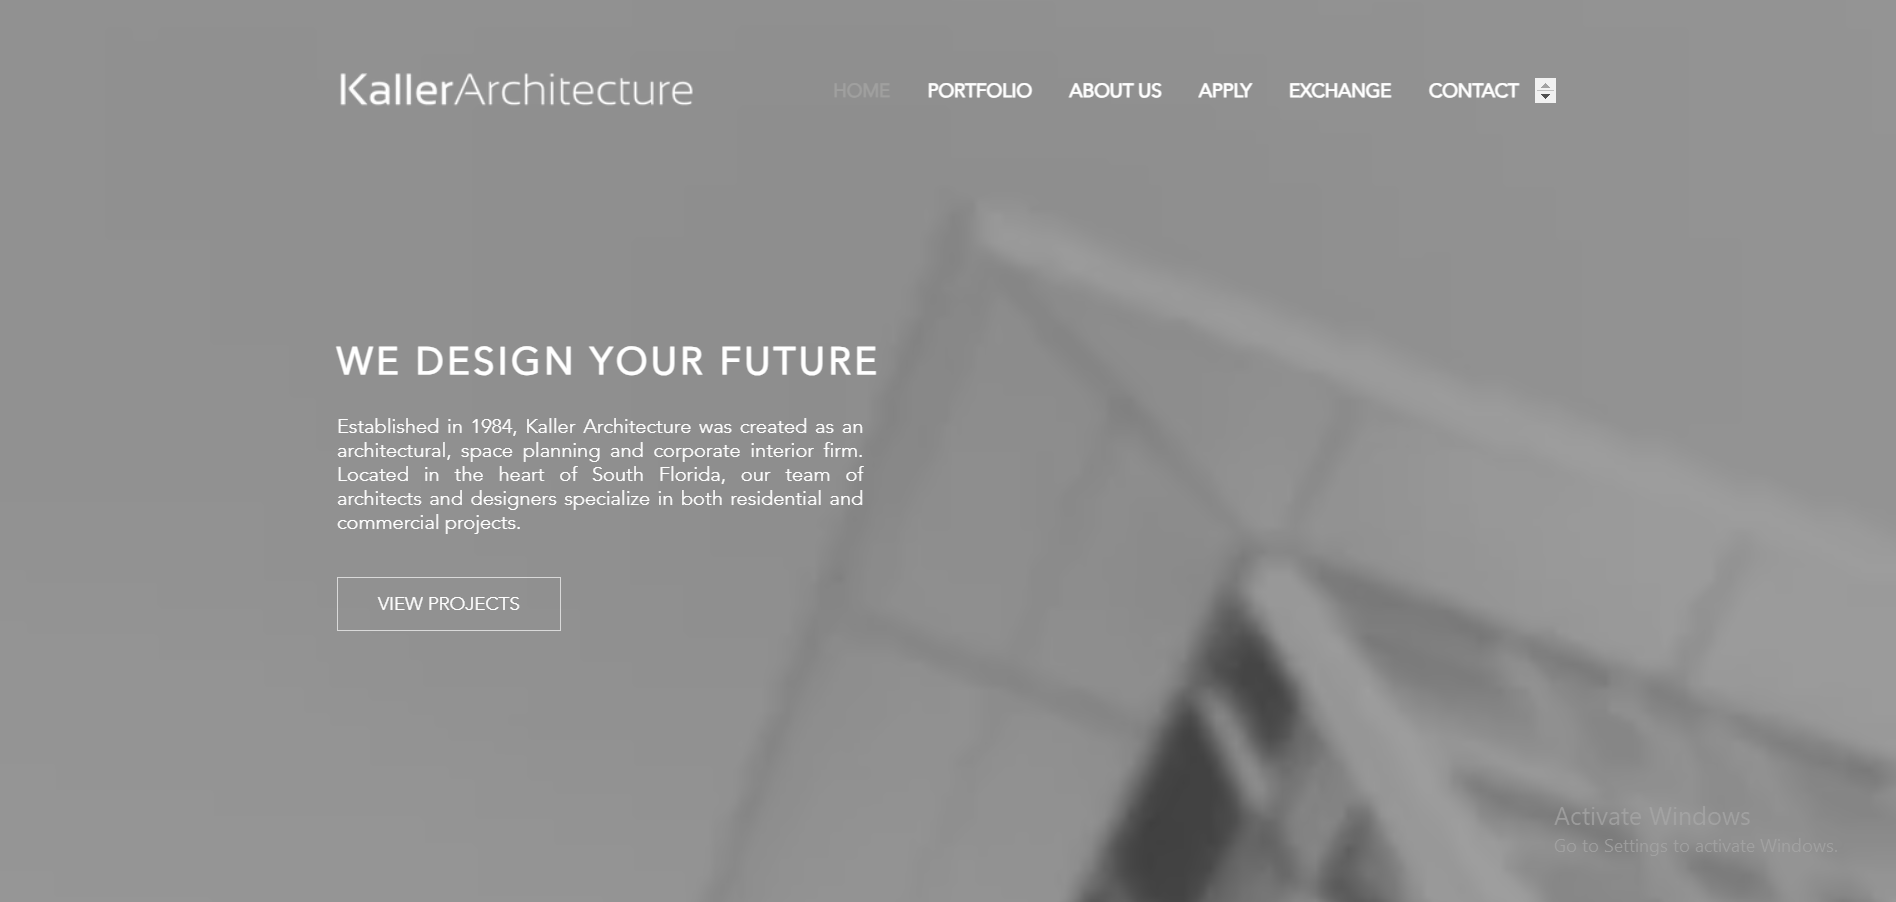
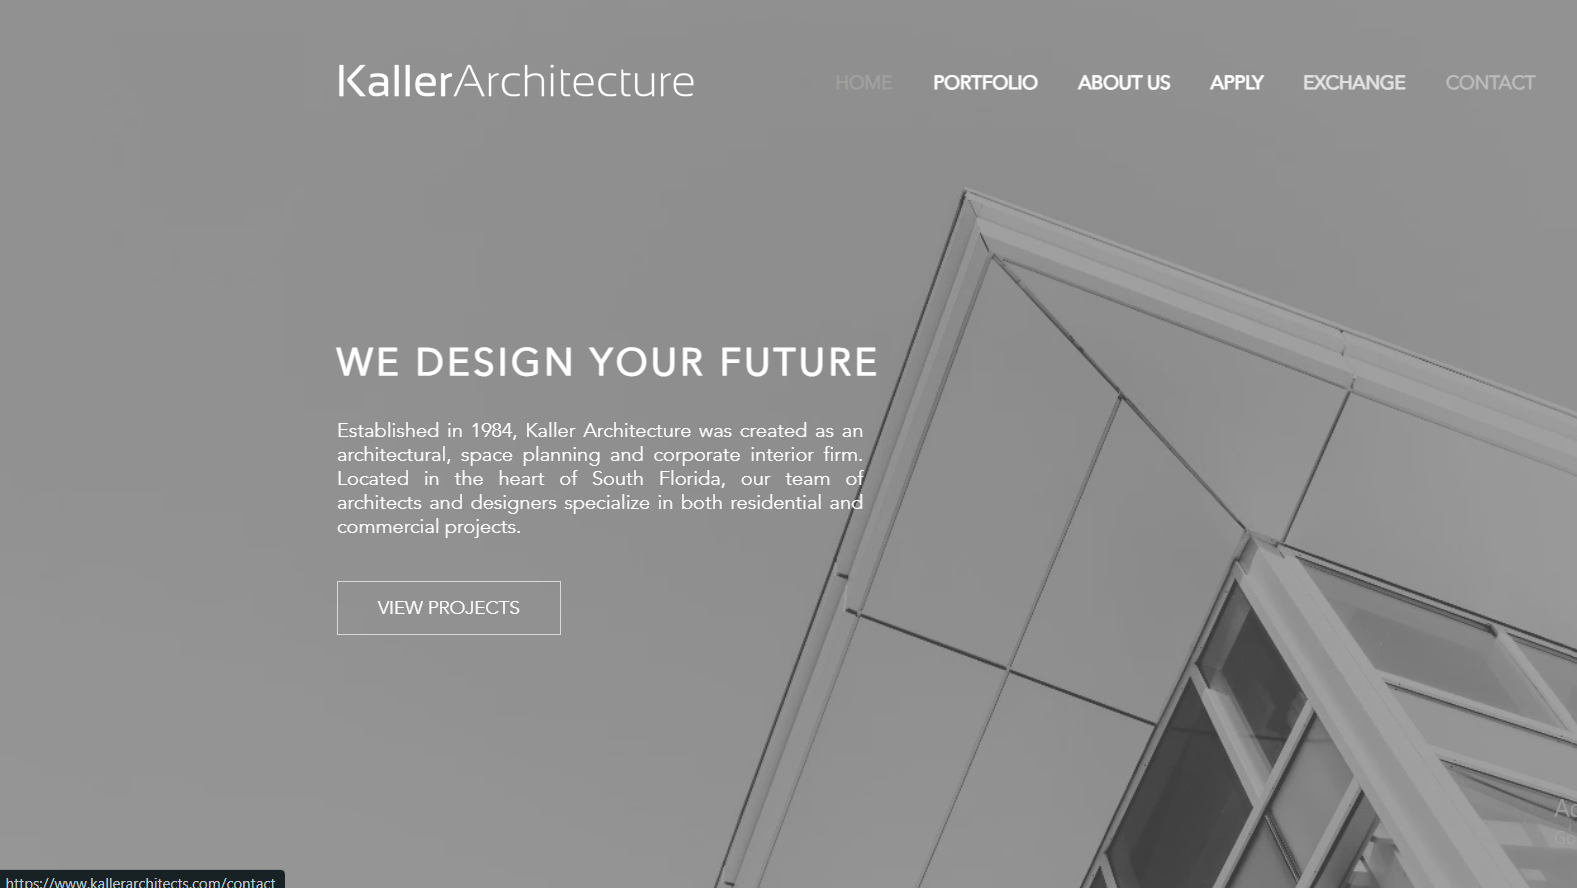
fixed images

diff --git a/src/app/layout.js b/src/app/layout.js
@@ -1,4 +1,4 @@
-// import Navbar from "@/components/Navbar";
+import Navbar from "@/components/Navbar";
 import "./globals.css";
 import "@fortawesome/fontawesome-free/css/all.css"; // Import FontAwesome CSS
 export const metadata = {
@@ -9,9 +9,8 @@ export const metadata = {
 export default function RootLayout({ children }) {
   return (
     <html lang="en">
-    
       <body>
-        {/* <Navbar /> */}
+        <Navbar />
 
         {children}
       </body>

diff --git a/src/components/Home/Firm.jsx b/src/components/Home/Firm.jsx
@@ -5,7 +5,7 @@ import React from "react";
 function Firm() {
   return (
     <>
-      <div className="grid items-center grid-cols-2 bg-black px-2 md:ps-36 ">
+      <div className="grid items-center grid-cols-2 ps-2 md:ps-36  ">
         <div className="col-span-1">
           <p className="text-l inline border-b-4 border-mainGold pb-2">
             OUR <span className="text-mainGold">FIRM</span>

diff --git a/src/components/Home/news.jsx b/src/components/Home/news.jsx
@@ -53,7 +53,7 @@ function News() {
                   <Image
                     width={500}
                     height={500}
-                    className="absolute top-0 left-0 w-full h-full object-cover"
+                    className="absolute top-0 left-0 w-full h-full  object-cover"
                     src={n.image}
                     alt=""
                   />
